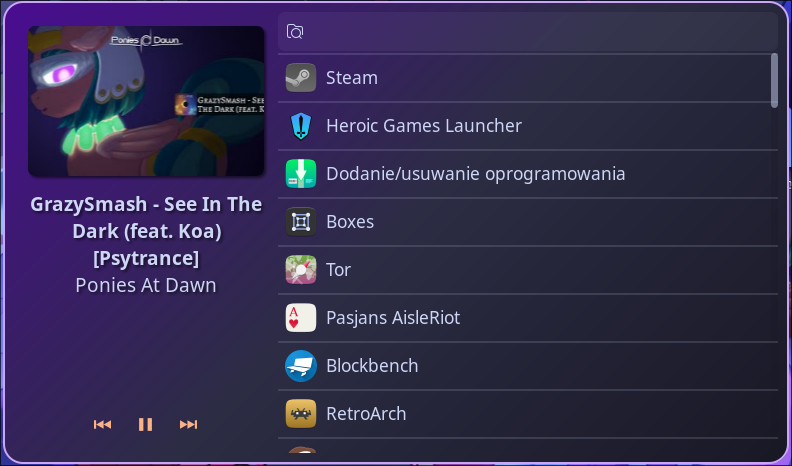
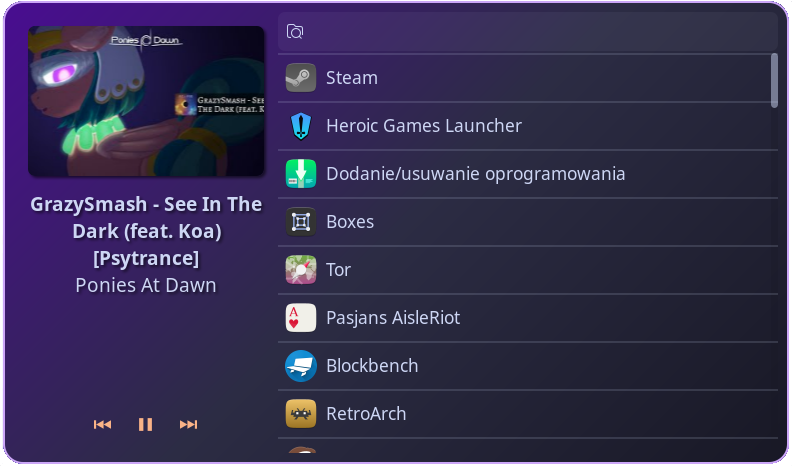
fixes

Changed region(s): [[0.0, 0.0, 1.0, 1.0]]

diff --git a/sass/dotsimg.scss b/sass/dotsimg.scss
@@ -69,42 +69,42 @@
 	background-position: center;
 }
 .quicksettings{
-	min-height: 200px;
+	min-height: 450px;
 	background: url('../images/widgets/quicksettings.png');
 	background-size: contain;
 	background-repeat: no-repeat;
 	background-position: center;
 }
 .dashboard{
-	min-height: 200px;
+	min-height: 350px;
 	background: url('../images/widgets/dashboard.png');
 	background-size: contain;
 	background-repeat: no-repeat;
 	background-position: center;
 }
 .applauncher{
-	min-height: 200px;
+	min-height: 350px;
 	background: url('../images/widgets/applauncher.png');
 	background-size: contain;
 	background-repeat: no-repeat;
 	background-position: center;
 }
 .powermenu{
-	min-height: 200px;
+	min-height: 350px;
 	background: url('../images/widgets/powermenu.png');
 	background-size: contain;
 	background-repeat: no-repeat;
 	background-position: center;
 }
 .music{
-	min-height: 200px;
+	min-height: 250px;
 	background: url('../images/widgets/music.png');
 	background-size: contain;
 	background-repeat: no-repeat;
 	background-position: center;
 }
 .media{
-	min-height: 100px;
+	min-height: 150px;
 	background: url('../images/widgets/media.png');
 	background-size: contain;
 	background-repeat: no-repeat;

diff --git a/css/dotsstyle.css b/css/dotsstyle.css
@@ -212,7 +212,7 @@ br {
 }
 
 .quicksettings {
-  min-height: 200px;
+  min-height: 450px;
   background: url("../images/widgets/quicksettings.png");
   background-size: contain;
   background-repeat: no-repeat;
@@ -220,7 +220,7 @@ br {
 }
 
 .dashboard {
-  min-height: 200px;
+  min-height: 350px;
   background: url("../images/widgets/dashboard.png");
   background-size: contain;
   background-repeat: no-repeat;
@@ -228,7 +228,7 @@ br {
 }
 
 .applauncher {
-  min-height: 200px;
+  min-height: 350px;
   background: url("../images/widgets/applauncher.png");
   background-size: contain;
   background-repeat: no-repeat;
@@ -236,7 +236,7 @@ br {
 }
 
 .powermenu {
-  min-height: 200px;
+  min-height: 350px;
   background: url("../images/widgets/powermenu.png");
   background-size: contain;
   background-repeat: no-repeat;
@@ -244,7 +244,7 @@ br {
 }
 
 .music {
-  min-height: 200px;
+  min-height: 250px;
   background: url("../images/widgets/music.png");
   background-size: contain;
   background-repeat: no-repeat;
@@ -252,7 +252,7 @@ br {
 }
 
 .media {
-  min-height: 100px;
+  min-height: 150px;
   background: url("../images/widgets/media.png");
   background-size: contain;
   background-repeat: no-repeat;
